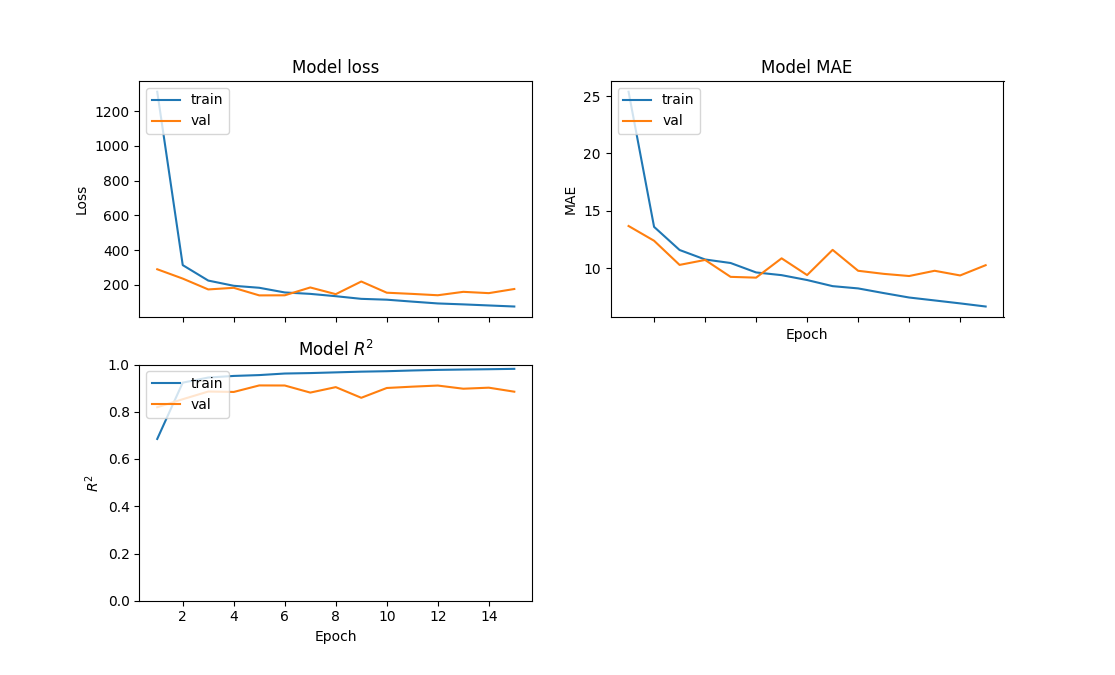
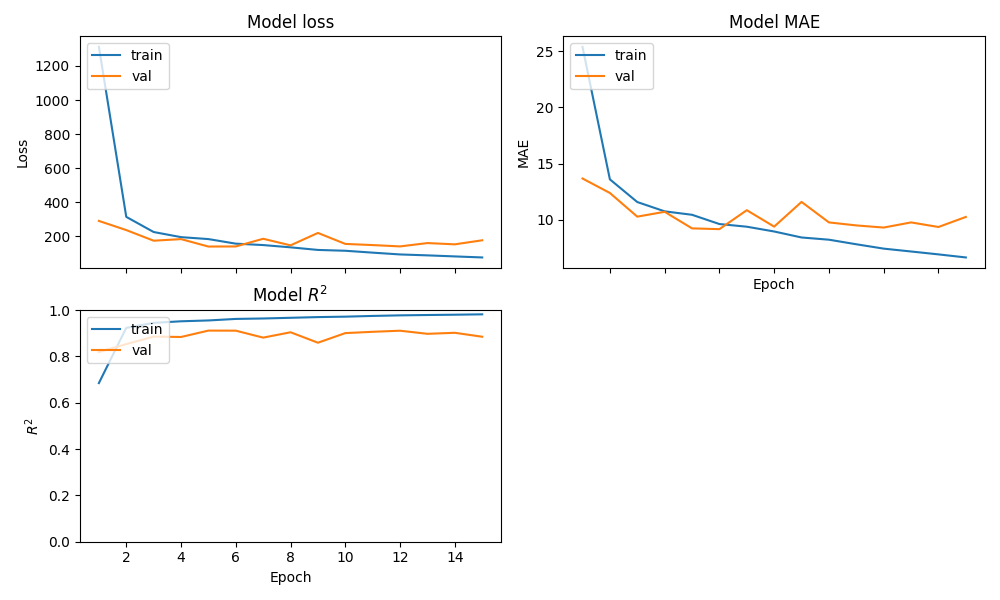
updates in results

diff --git a/baa/age/model.py b/baa/age/model.py
@@ -456,11 +456,11 @@ class BoneAgeAssessment():
         epochs = np.arange(0,len(loss),step=1)+1
         filename = os.path.join(self.results,'history.txt')
         with open(filename,'w') as fp:
-            fp.write("#epochs, loss, val_loss, mae, val_mae, r_squared, val_r_squared")
+            fp.write("# epochs, loss, val_loss, mae, val_mae, r_squared, val_r_squared")
             for i in range(len(epochs)):
                 fp.write(f"{epochs[i]}, {loss[i]}, {val_loss[i]}, {mae[i]}, {val_mae[i]}, {r_squared_[i]}, {val_r_squared[i]}\n")
         
-        fig, axs = plt.subplots(nrows=2, ncols=2, figsize=(15, 15))
+        fig, axs = plt.subplots(nrows=2, ncols=2, sharex=True,frameon=True,figsize=(10,6))
         axs[0, 0].plot(epochs,loss)
         axs[0, 0].plot(epochs,val_loss)
         axs[0, 0].set_title('Model loss')
